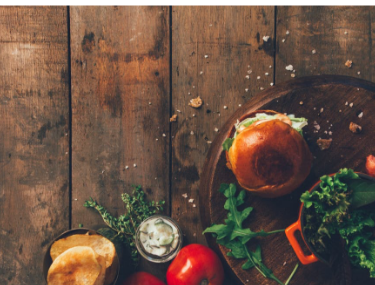
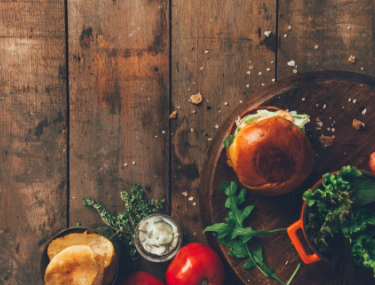
1121

diff --git a/assets/scss/object/project/_p-top-img.scss b/assets/scss/object/project/_p-top-img.scss
@@ -34,16 +34,16 @@
     }
     .top-sm-img {
       display: block;
-      width: auto;
+      width: 100%;
       height: 100%;
       background-color: #000;
     }
     p {
       left: 25px;
-      span{
+      span {
         position: absolute;
-        top:60px;
-        left:0px
+        top: 60px;
+        left: 0px;
       }
     }
   }

diff --git a/assets/css/style.css b/assets/css/style.css
@@ -796,7 +796,7 @@ ul {
   }
   .p-top-img .top-sm-img {
     display: block;
-    width: auto;
+    width: 100%;
     height: 100%;
     background-color: #000;
   }
